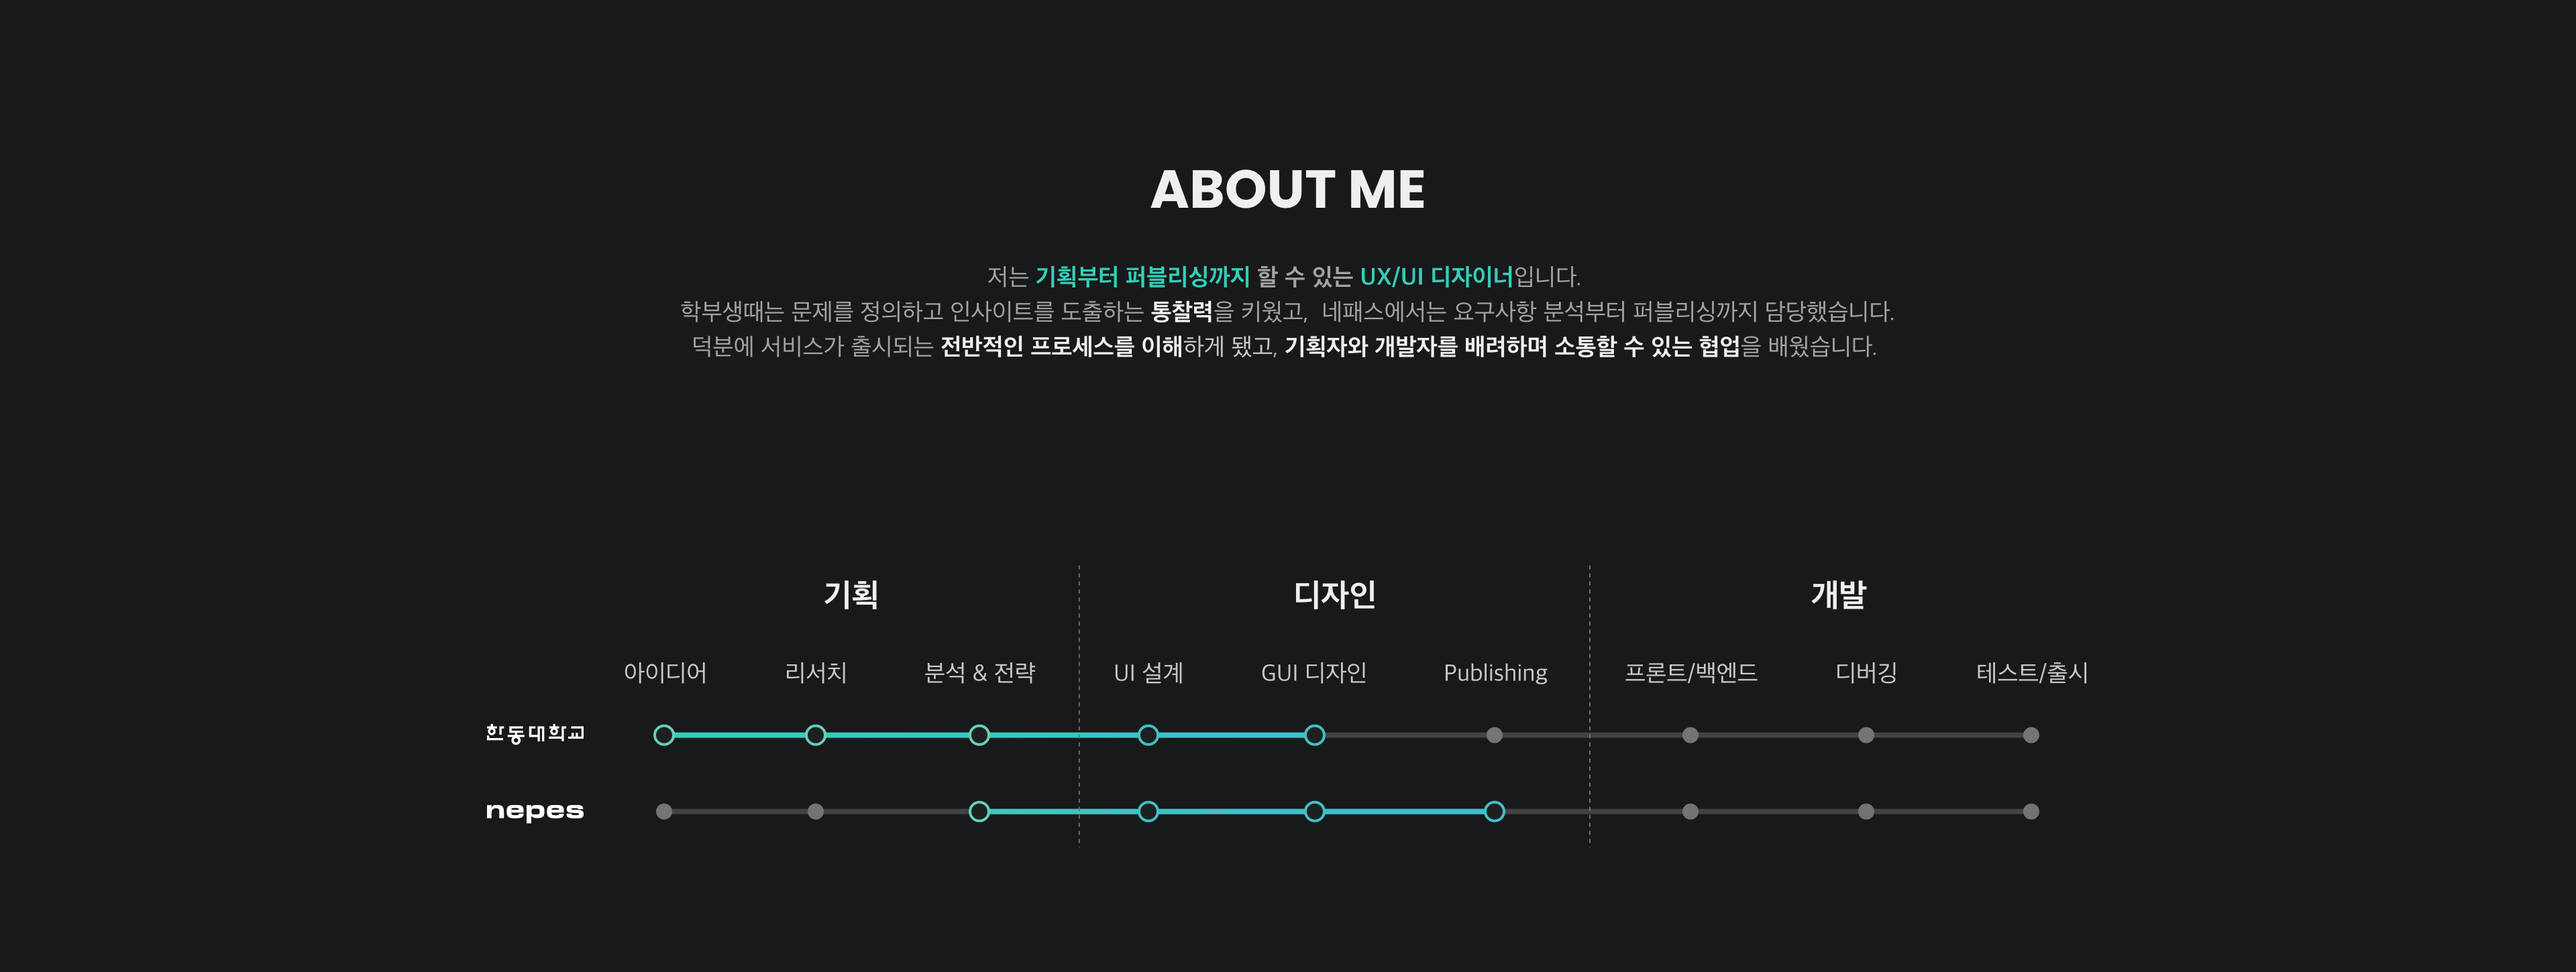
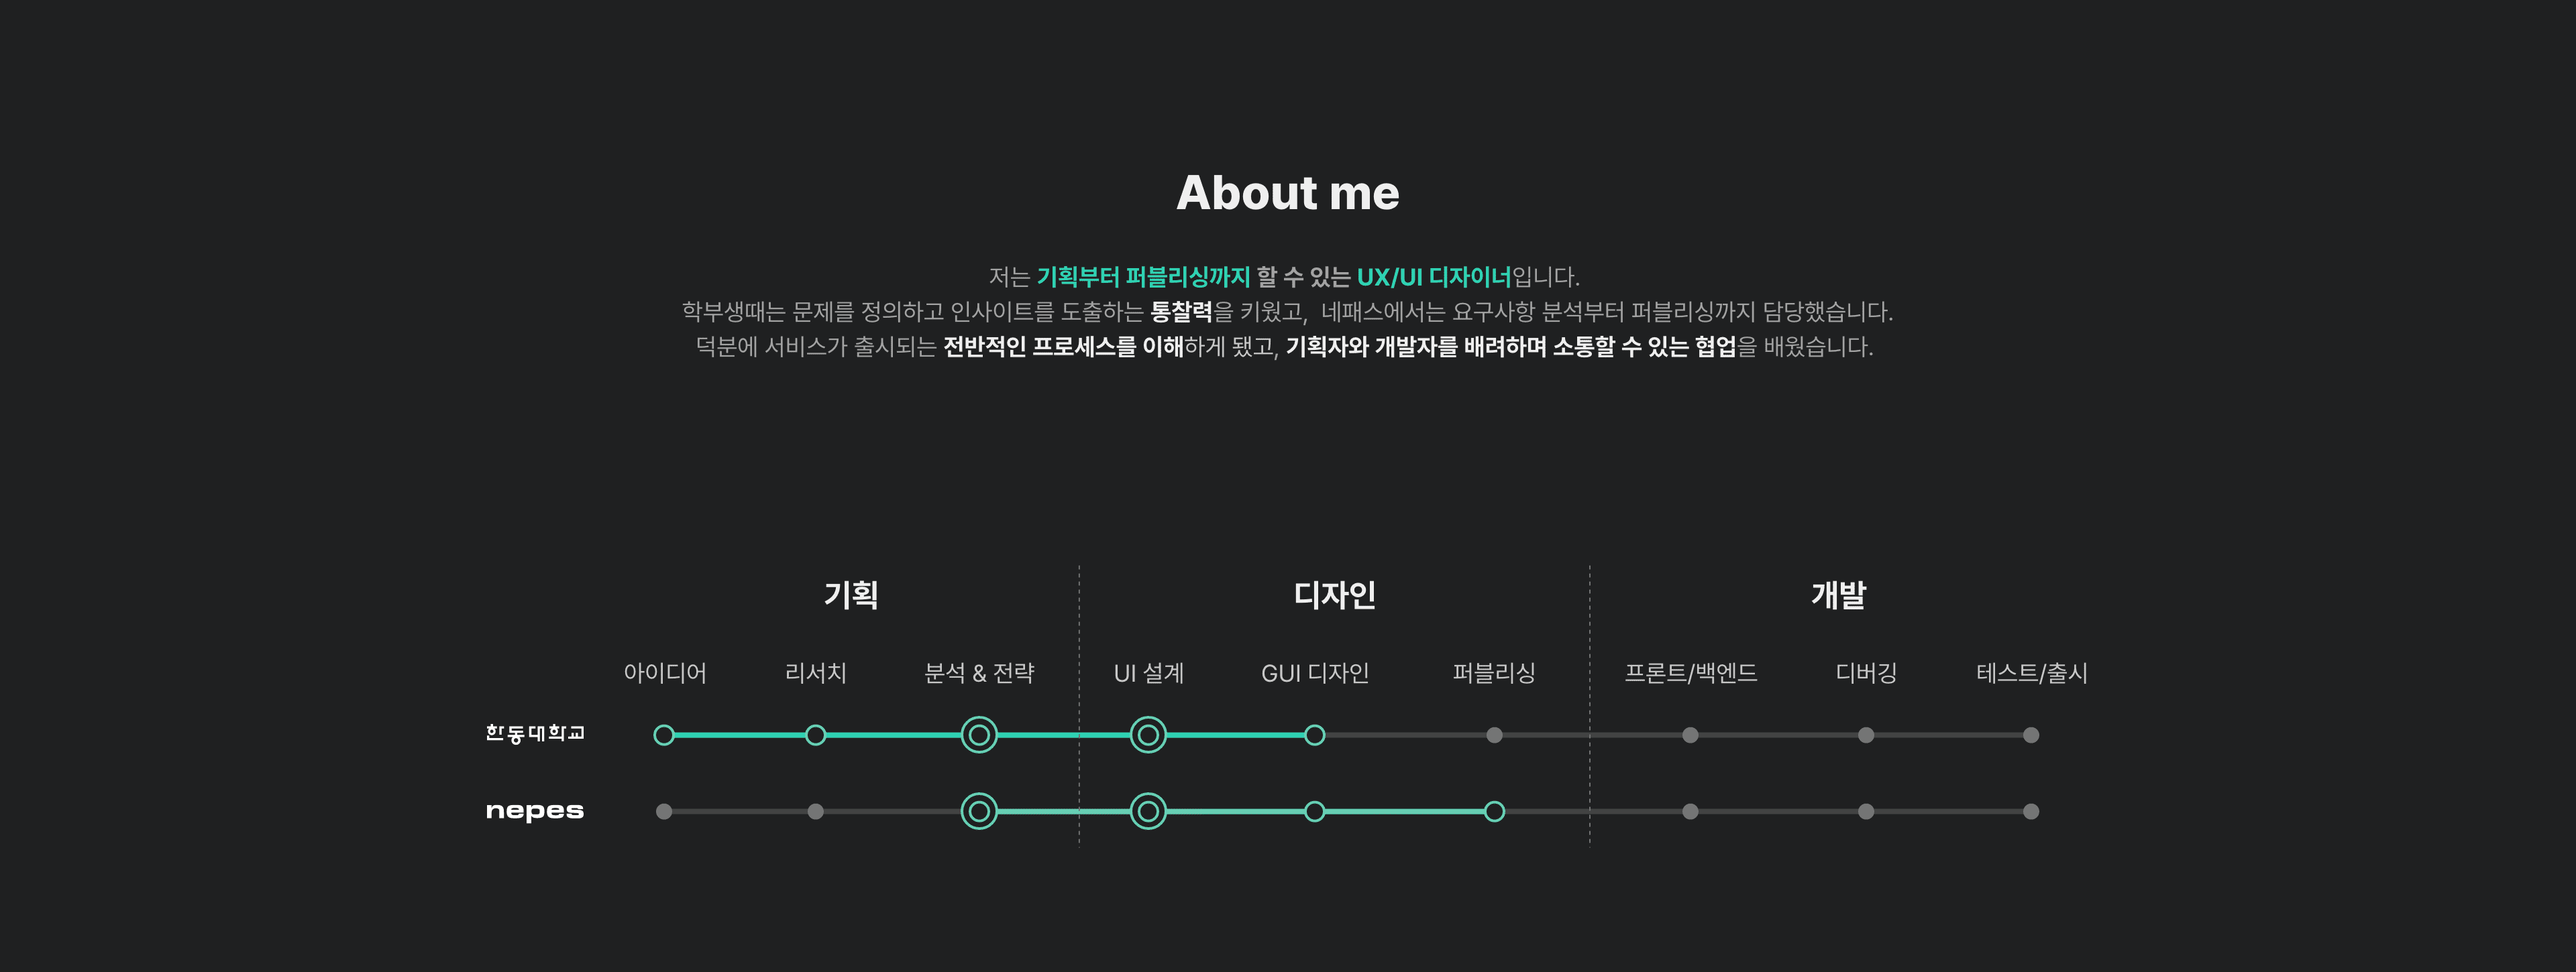
edit

diff --git a/index.html b/index.html
@@ -11,6 +11,7 @@
     <!-- css -->
     <link rel="stylesheet" href="common.css">
     <link rel="stylesheet" href="home.css">
+    <link rel="stylesheet" type="text/css" href="https://cdn.jsdelivr.net/gh/orioncactus/pretendard/dist/web/static/pretendard-dynamic-subset.css" />
     <!-- javascript -->
     <script src="main.js" defer></script>
     </head>
@@ -19,20 +20,20 @@
             <!-- 네비게이션 -->
             <nav id="navbar">
                 <div class="navbar_logo">
-                    <a href="#" onclick="location.href='index.html'" >HEESOO<span>'</span>s PORTFOLIO</a>
+                    <a href="#" onclick="location.href='index.html'" >HEESOO<span>'</span>s Portfolio</a>
                 </div>
                 <div class="navbar_menu">
                     <!-- alt + shift 동시에 눌러서 마우스로 끌어당기면 동시에 작성 가능 -->
-                    <a class="navbar_menu_item" data-link="#about">ABOUT ME<span></span></a> 
-                    <a href="#" onclick="location.href='01. work_ark.html'" class="navbar_menu_item">WORKS<span></span></a>
-                    <a class="navbar_menu_item" data-link="#contact">CONTACT<span></span></a>
+                    <a class="navbar_menu_item" data-link="#about">About me<span></span></a> 
+                    <a href="#" onclick="location.href='01. work_ark.html'" class="navbar_menu_item">Woks<span></span></a>
+                    <a class="navbar_menu_item" data-link="#contact">Contact<span></span></a>
                 </div>
             </nav>
             <main>
                 <!-- UX란 -->
                 <section id="intro" class="section">
                     <p>디자인으로 기술과 사람을 이어주는 <strong>다리 ,</strong><br>
-                       UX/UI 디자이너<br>
+                       <span>UX/UI 디자이너</span><br>
                        <strong>윤희수</strong> 입니다<span>.</span></p>
                 </section>
                 <!-- about me -->
@@ -40,15 +41,15 @@
                 </section>
                 <!-- 작업물 -->
                 <section id="works" class="section">
-                    <p class="work_title">MY WORKS</p>
+                    <p class="work_title">My Works</p>
                     <div class="work_categories">
                         <button class="category_btn active" data-filter="*">All</button>
-                        <button class="category_btn" data-filter="web">WEB</button>
-                        <button class="category_btn" data-filter="mobile">MOBILE</button>
-                        <button class="category_btn" data-filter="project">PROJECT</button>
+                        <button class="category_btn" data-filter="web">Web</button>
+                        <button class="category_btn" data-filter="mobile">Mobile</button>
+                        <button class="category_btn" data-filter="project">Project</button>
                     </div>
                     <div class="work_project">
-                        <a href="#" onclick="location.href='01. work_ark.html'" class="project">
+                        <a href="#" onclick="location.href='01. work_ark.html'" class="project" data-type="web">
                             <img class="project_img" src="images/work_1.png">
                             <div class="project_description">
                                 <h4>nMES ARK</h4>
@@ -56,7 +57,7 @@
                                 <span>자세히 보기 ></span>
                             </div>
                         </a>
-                        <a href="#" onclick="location.href='03. work_smartDL.html'" class="project">
+                        <a href="#" onclick="location.href='03. work_smartDL.html'" class="project" data-type="mobile">
                             <img class="project_img" src="images/work_2.png">
                             <div class="project_description">
                                 <h4>Smart Doorlock</h4>
@@ -64,7 +65,7 @@
                                 <span>자세히 보기 ></span>
                             </div>
                         </a>
-                        <a href="#" onclick="location.href='04. work_hycare.html'" class="project">
+                        <a href="#" onclick="location.href='04. work_hycare.html'" class="project" data-type="project">
                             <img class="project_img" src="images/work_3.png">
                             <div class="project_description">
                                 <h4>HYCARE</h4>
@@ -72,16 +73,15 @@
                                 <span>자세히 보기 ></span>
                             </div>
                         </a>
-                    
                     </div>
                 </section>
             </main>
             <footer id="contact">
                 <h1>Let<span>'</span>s Talk</h1>
                 <div class="footer_info">
-                    <span>E-MAIL</span>
-                    <span>480angela@gmail.com</span>
-                    <span>PH</span>
+                    <span>E-mail</span>
+                    <span>Heesoo.UX@gmail.com</span>
+                    <span>Phone</span>
                     <span>010.6405.1993</span>
                 </div>
                 <p class="copyright">© 2022 Heesoo. All rights reserved.

diff --git a/01. work_ark.html b/01. work_ark.html
@@ -18,17 +18,16 @@
             <!-- 네비게이션 -->
             <nav id="navbar">
                 <div class="navbar_logo">
-                    <a href="#" onclick="location.href='index.html'" >HEESOO<span>'</span>s PORTFOLIO</a>
+                    <a href="#" onclick="location.href='index.html'" >HEESOO<span>'</span>s Portfolio</a>
                 </div>
                 <div class="navbar_menu">
-                    <a href="#" onclick="location.href='01. work_ark.html'" class="navbar_menu_item active">WORKS<span></span></a>
-                    <!-- <a class="navbar_menu_item" data-link="#contact">CONTACT<span></span></a> -->
+                    <a href="#" onclick="location.href='01. work_ark.html'" class="navbar_menu_item">WorkS<span></span></a>
                 </div>
             </nav>
             <main>
                 <!-- second nav -->
                 <section class="header">
-                    <a href="#" onclick="location.href='01. work_ark.html'" class="header_item active">nEQMS_ARK<span></span></a>
+                    <a href="#" onclick="location.href='01. work_ark.html'" class="header_item active">nEQMS ARK<span></span></a>
                     <!-- <a href="#" class="header_item">Sputter<span></span></a>  -->
                     <a href="#" onclick="location.href='03. work_smartDL.html'" class="header_item">Smart Doorlock<span></span></a> 
                     <a href="#" onclick="location.href='04. work_hycare.html'" class="header_item">HY-CARE<span></span></a> 
@@ -42,9 +41,9 @@
             <footer id="contact">
                 <h1>Let<span>'</span>s Talk</h1>
                 <div class="footer_info">
-                    <span>E-MAIL</span>
-                    <span>480angela@gmail.com</span>
-                    <span>PH</span>
+                    <span>E-mail</span>
+                    <span>Heesoo.UX@gmail.com</span>
+                    <span>Phone</span>
                     <span>010.6405.1993</span>
                 </div>
                 <p class="copyright">© 2022 Heesoo. All rights reserved.

diff --git a/03. work_smartDL.html b/03. work_smartDL.html
@@ -18,17 +18,16 @@
             <!-- 네비게이션 -->
             <nav id="navbar">
                 <div class="navbar_logo">
-                    <a href="#" onclick="location.href='index.html'" >HEESOO<span>'</span>s PORTFOLIO</a>
+                    <a href="#" onclick="location.href='index.html'" >HEESOO<span>'</span>s Portfolio</a>
                 </div>
                 <div class="navbar_menu">
-                    <a href="#" onclick="location.href='01. work_ark.html'" class="navbar_menu_item active">WORKS<span></span></a>
-                    <!-- <a class="navbar_menu_item" data-link="#contact">CONTACT<span></span></a> -->
+                    <a href="#" onclick="location.href='01. work_ark.html'" class="navbar_menu_item">WorkS<span></span></a>
                 </div>
             </nav>
             <main>
                 <!-- second nav -->
                 <section class="header">
-                    <a href="#" onclick="location.href='01. work_ark.html'" class="header_item">nEQMS_ARK<span></span></a>
+                    <a href="#" onclick="location.href='01. work_ark.html'" class="header_item">nEQMS ARK<span></span></a>
                     <!-- <a href="#" class="header_item">Sputter<span></span></a>  -->
                     <a href="#" onclick="location.href='03. work_smartDL.html'" class="header_item active">Smart Doorlock<span></span></a> 
                     <a href="#" onclick="location.href='04. work_hycare.html'" class="header_item">HY-CARE<span></span></a> 
@@ -42,9 +41,9 @@
             <footer id="contact">
                 <h1>Let<span>'</span>s Talk</h1>
                 <div class="footer_info">
-                    <span>E-MAIL</span>
-                    <span>480angela@gmail.com</span>
-                    <span>PH</span>
+                    <span>E-mail</span>
+                    <span>Heesoo.UX@gmail.com</span>
+                    <span>Phone</span>
                     <span>010.6405.1993</span>
                 </div>
                 <p class="copyright">© 2022 Heesoo. All rights reserved.

diff --git a/04. work_hycare.html b/04. work_hycare.html
@@ -18,17 +18,16 @@
             <!-- 네비게이션 -->
             <nav id="navbar">
                 <div class="navbar_logo">
-                    <a href="#" onclick="location.href='index.html'" >HEESOO<span>'</span>s PORTFOLIO</a>
+                    <a href="#" onclick="location.href='index.html'" >HEESOO<span>'</span>s Portfolio</a>
                 </div>
                 <div class="navbar_menu">
-                    <a href="#" onclick="location.href='01. work_ark.html'" class="navbar_menu_item">WORKS<span></span></a>
-                    <!-- <a class="navbar_menu_item" data-link="#contact">CONTACT<span></span></a> -->
+                    <a href="#" onclick="location.href='01. work_ark.html'" class="navbar_menu_item">Works<span></span></a>
                 </div>
             </nav>
             <main>
                 <!-- second nav -->
                 <section class="header">
-                    <a href="#" onclick="location.href='01. work_ark.html'" class="header_item">nEQMS_ARK<span></span></a>
+                    <a href="#" onclick="location.href='01. work_ark.html'" class="header_item">nEQMS ARK<span></span></a>
                     <!-- <a href="#" class="header_item">Sputter<span></span></a>  -->
                     <a href="#" onclick="location.href='03. work_smartDL.html'" class="header_item">Smart Doorlock<span></span></a> 
                     <a href="#" onclick="location.href='04. work_hycare.html'" class="header_item active">HY-CARE<span></span></a> 
@@ -51,9 +50,9 @@
             <footer id="contact">
                 <h1>Let<span>'</span>s Talk</h1>
                 <div class="footer_info">
-                    <span>E-MAIL</span>
-                    <span>480angela@gmail.com</span>
-                    <span>PH</span>
+                    <span>E-mail</span>
+                    <span>Heesoo.UX@gmail.com</span>
+                    <span>Phone</span>
                     <span>010.6405.1993</span>
                 </div>
                 <p class="copyright">© 2022 Heesoo. All rights reserved.

diff --git a/common.css b/common.css
@@ -1,4 +1,4 @@
-@import url('https://fonts.googleapis.com/css2?family=Noto+Sans+KR:wght@300;400;500;700&family=Poppins:wght@200;300;400;500;600;700;800&display=swap');
+@import url('https://cdn.jsdelivr.net/gh/orioncactus/pretendard/dist/web/static/pretendard-dynamic-subset.css');
 
 * {
     margin: 0px;
@@ -162,10 +162,15 @@ footer h1 span {
 .footer_info span:nth-child(odd) {
     color: var(--gray2-color);
     margin-right: 0.5rem;
+    font-weight: 300;
 }
 
 .footer_info span:nth-child(2) {
     margin-right: 2rem;
+}
+
+.footer_info span:nth-child(2n) {
+    font-weight: 300;
 }
 
 .copyright {
@@ -181,8 +186,8 @@ footer h1 span {
 
 /* intro */
 #intro {
-    background: url('images/home_background.png') center/cover no-repeat;
-    height: 1016px;
+    /* background: url('images/home_background.png') center/cover no-repeat; */
+    /* height: 1016px; */
 }
 
 #intro strong {
@@ -220,7 +225,7 @@ footer h1 span {
 
 p.work_title {
     color: var(--white-color);
-    font-size: 40px;
+    font-size: 36px;
     font-weight: 700;
     margin-bottom: 1.5rem;
 }
@@ -313,17 +318,6 @@ p.work_title {
     border-bottom: 2px solid var(--white-color);
     padding: 0 0 8px 0;
     position: relative;
-}
-
-.header a.active::before {
-    content: "";
-    width: 3px;
-    height: 3px;
-    border-radius: 50%;
-    background-color: var(--white-color);
-    position: absolute;
-    top: -4px;
-    right: 0;
 }
 
 .header_item {

diff --git a/main.js b/main.js
@@ -11,3 +11,11 @@ navbarMenu.addEventListener('click', (event) => {
     const scrollTo = document.querySelector(link);
     scrollTo.scrollIntoView({behavior: "smooth"});
 });
+
+//projects
+const workBtnContainer = document.querySelector('.work_categories');
+const projectContainer = document.querySelector('.work_project');
+const projects =  document.querySelectorAll('.project');
+workBtnContainer.addEventListener('click', (e) => {
+    const filter = e.target.dataset.filter;
+})
